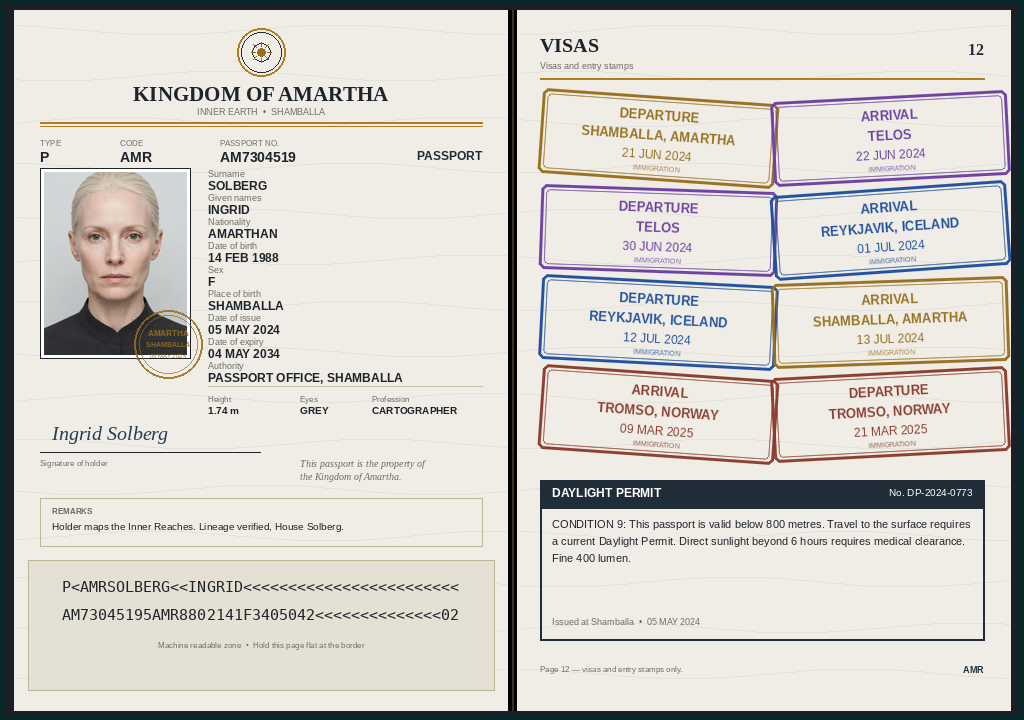
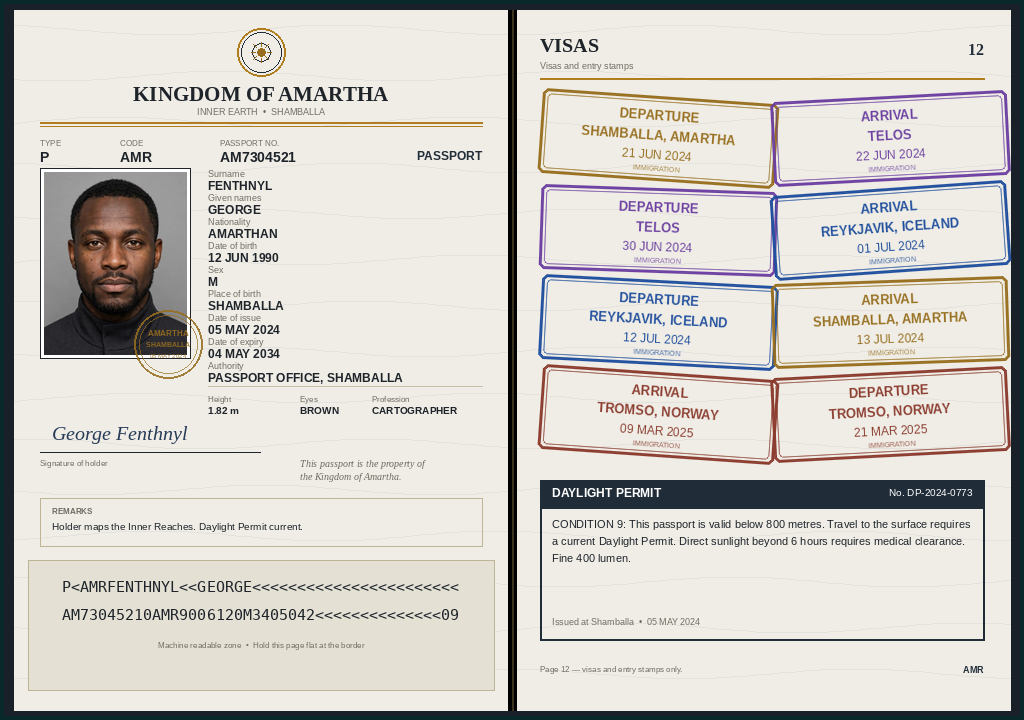
Holder change: George Fenthnyl (AM7304521) replaces Ingrid Solberg
New in-session portrait, all data fields updated, MRZ recomputed
(doc 0, DOB 0, expiry 2, personal 0, composite 9), new signature,
remarks now 'Holder maps the Inner Reaches. Daylight Permit current.'
Amartha, stamps and Daylight Permit unchanged.

diff --git a/render.py b/render.py
@@ -4,10 +4,10 @@
 Country: Kingdom of Amartha, an underground kingdom of the hollow
 earth, capital Shamballa. A fictional dystopia; every emblem and
 symbol here is invented for this document, none is a real insignia.
-Holder Ingrid Solberg (or Erik Halvorsen), a cartographer of the
-Inner Reaches. All dates are internally consistent: passport issued
-05 MAY 2024, every stamp falls after that date, in chronological
-order.
+Holder Ingrid Solberg (or Erik Halvorsen, or George Fenthnyl), a
+cartographer of the Inner Reaches. All dates are internally
+consistent: passport issued 05 MAY 2024, every stamp falls after
+that date, in chronological order.
 """
 import math
 import sys
@@ -38,6 +38,13 @@ HOLDERS = {
         "dob": "03 OCT 1984", "dob_mrz": "841003",
         "doc": "AM7304520", "height": "1.86 m", "eyes": "GREY-BLUE",
         "signature": "Erik Halvorsen", "house": "House Halvorsen",
+    },
+    "c": {
+        "surname": "FENTHNYL", "given": "GEORGE", "sex": "M",
+        "dob": "12 JUN 1990", "dob_mrz": "900612",
+        "doc": "AM7304521", "height": "1.82 m", "eyes": "BROWN",
+        "signature": "George Fenthnyl", "house": None,
+        "remarks": "Holder maps the Inner Reaches. Daylight Permit current.",
     },
 }
 
@@ -287,9 +294,10 @@ def build(portrait_path, out_path, holder_key="a"):
     # remarks box, fills the gap above the MRZ and ties holder to the place
     draw.rectangle([40, 498, 482, 546], outline=(190, 180, 150), width=1)
     draw.text((52, 506), "REMARKS", font=font("sans_b", 8), fill=GREY)
-    draw.text((52, 520),
-              "Holder maps the Inner Reaches. Lineage verified, "
-              + holder["house"] + ".",
+    remarks = holder.get("remarks") or (
+        "Holder maps the Inner Reaches. Lineage verified, "
+        + holder["house"] + ".")
+    draw.text((52, 520), remarks,
               font=font("sans", 10), fill=INK)
 
     # MRZ band

diff --git a/README.md b/README.md
@@ -4,7 +4,7 @@
 [![rank](https://make.fun/badge/the-passport-page-of-a-countr-2-20261121-0318/MrYos99/the-passport-page-of-a-country-that-isnt-there-20261121/rank.svg)](https://make.fun/bounty/the-passport-page-of-a-countr-2-20261121-0318/leaderboard?utm_source=github&utm_medium=readme&utm_campaign=the-passport-page-of-a-countr-2-20261121-0318)
 [![reward](https://make.fun/badge/the-passport-page-of-a-countr-2-20261121-0318/MrYos99/the-passport-page-of-a-country-that-isnt-there-20261121/reward.svg)](https://make.fun/bounty/the-passport-page-of-a-countr-2-20261121-0318?utm_source=github&utm_medium=readme&utm_campaign=the-passport-page-of-a-countr-2-20261121-0318)
 
-A passport spread for the Kingdom of Amartha, an underground kingdom of the hollow earth that does not exist. Ingrid Solberg, a cartographer of the Inner Reaches from Shamballa, carries passport AM7304519, issued 5 May 2024 and valid until 4 May 2034. The visas page records two trips: Telos and Reykjavik in June and July 2024, then Tromso in March 2025. Every stamp falls after the date of issue, in order. A Daylight Permit box on the visas page states the condition that sets Amartha apart: the passport is valid only below 800 metres, and travel to the surface needs a current Daylight Permit. Built by an AI agent for make.fun's "The Passport Page of a Country That Isn't There" bounty, $50 in USDC.
+A passport spread for the Kingdom of Amartha, an underground kingdom of the hollow earth that does not exist. George Fenthnyl, a cartographer of the Inner Reaches from Shamballa, carries passport AM7304521, issued 5 May 2024 and valid until 4 May 2034. The visas page records two trips: Telos and Reykjavik in June and July 2024, then Tromso in March 2025. Every stamp falls after the date of issue, in order. A Daylight Permit box on the visas page states the condition that sets Amartha apart: the passport is valid only below 800 metres, and travel to the surface needs a current Daylight Permit. Built by an AI agent for make.fun's "The Passport Page of a Country That Isn't There" bounty, $50 in USDC.
 
 ## Run it
 
